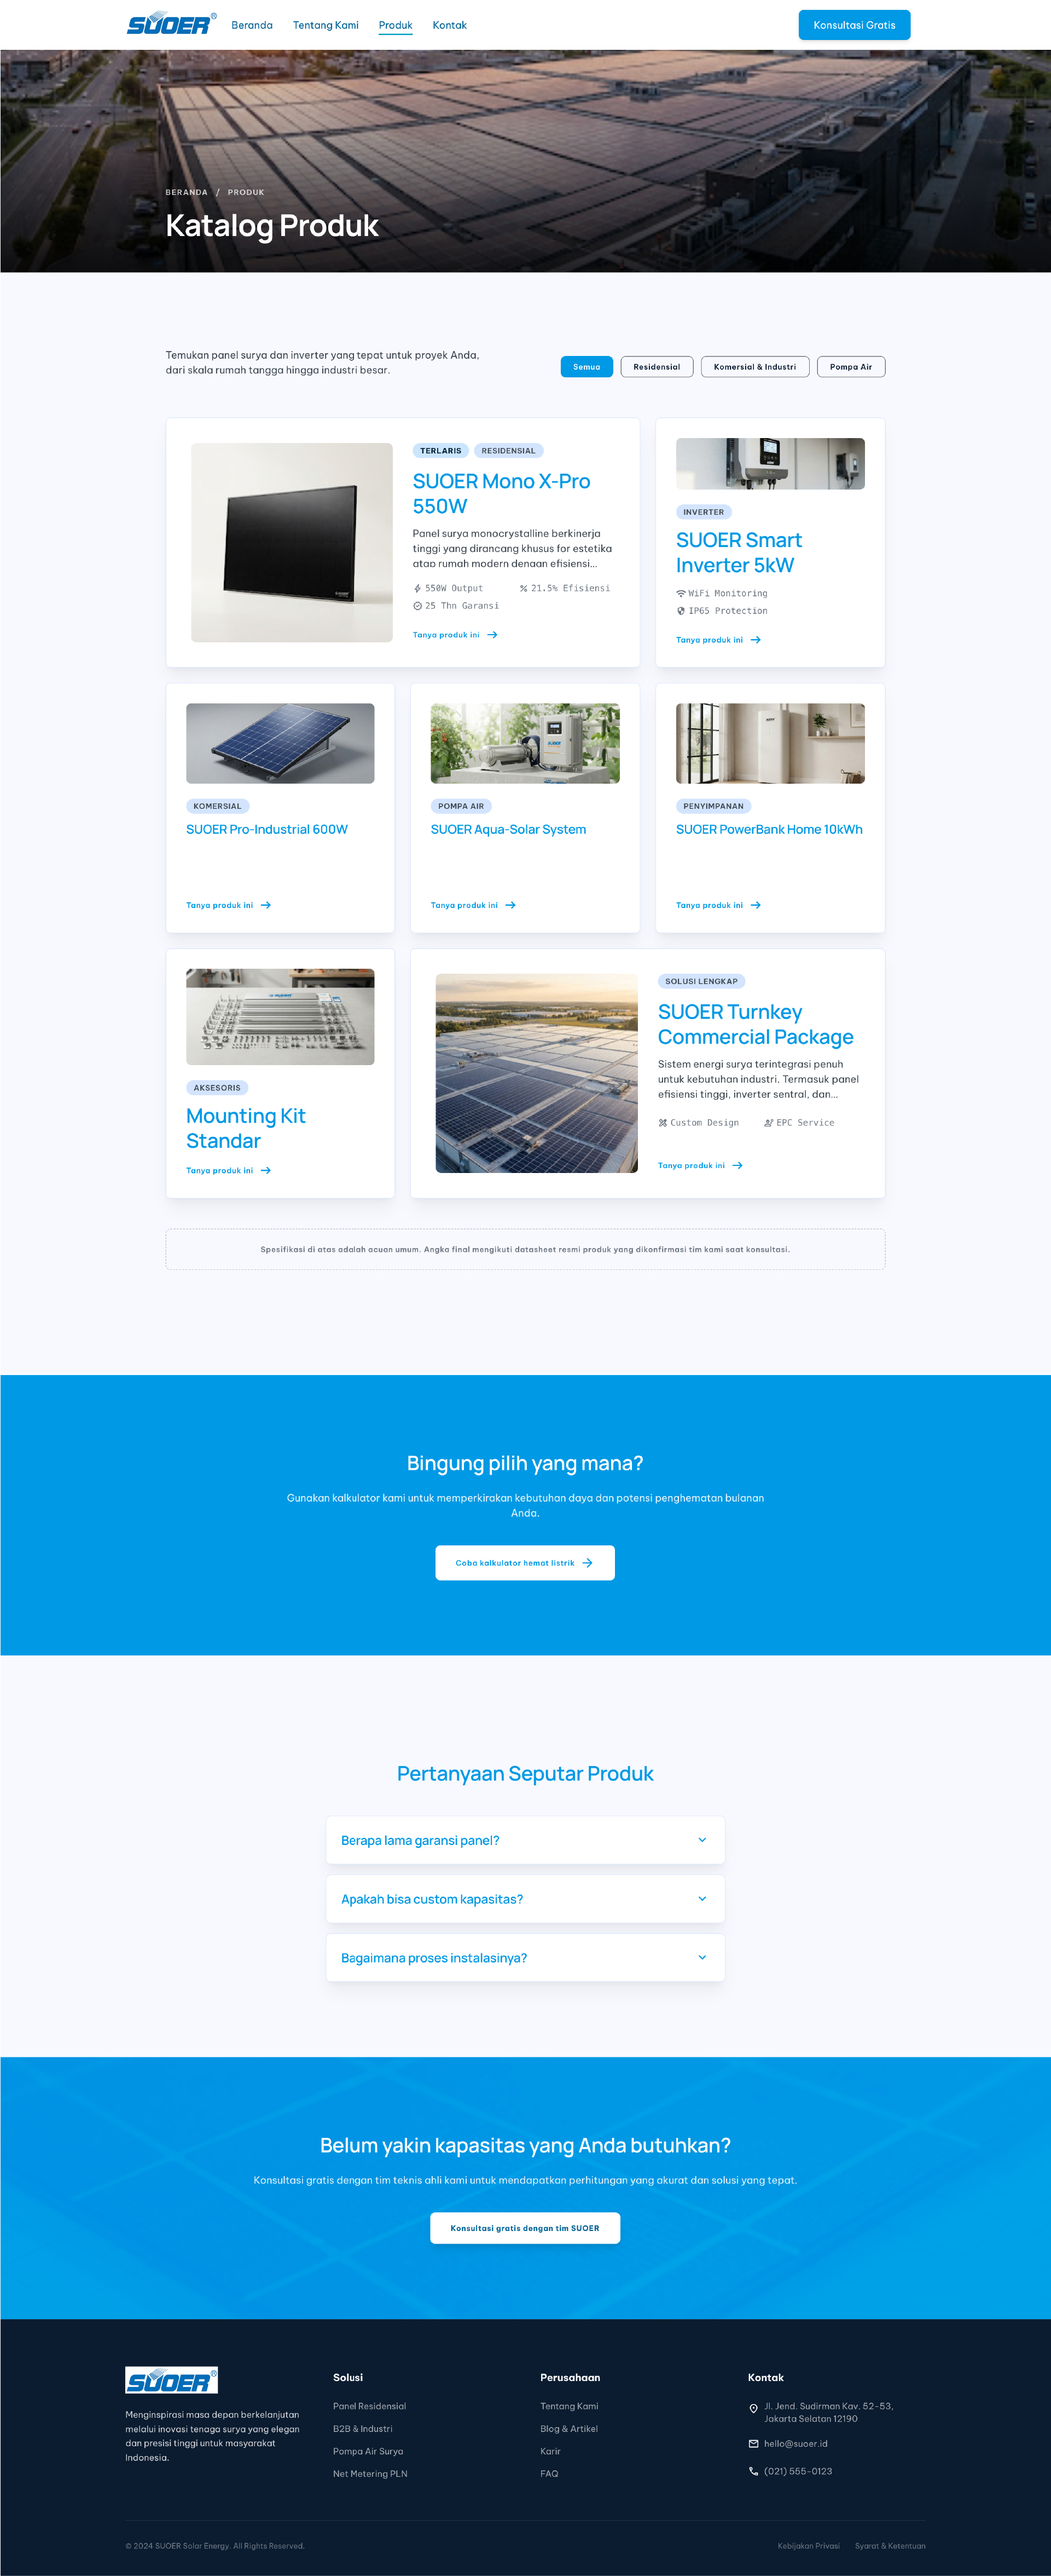
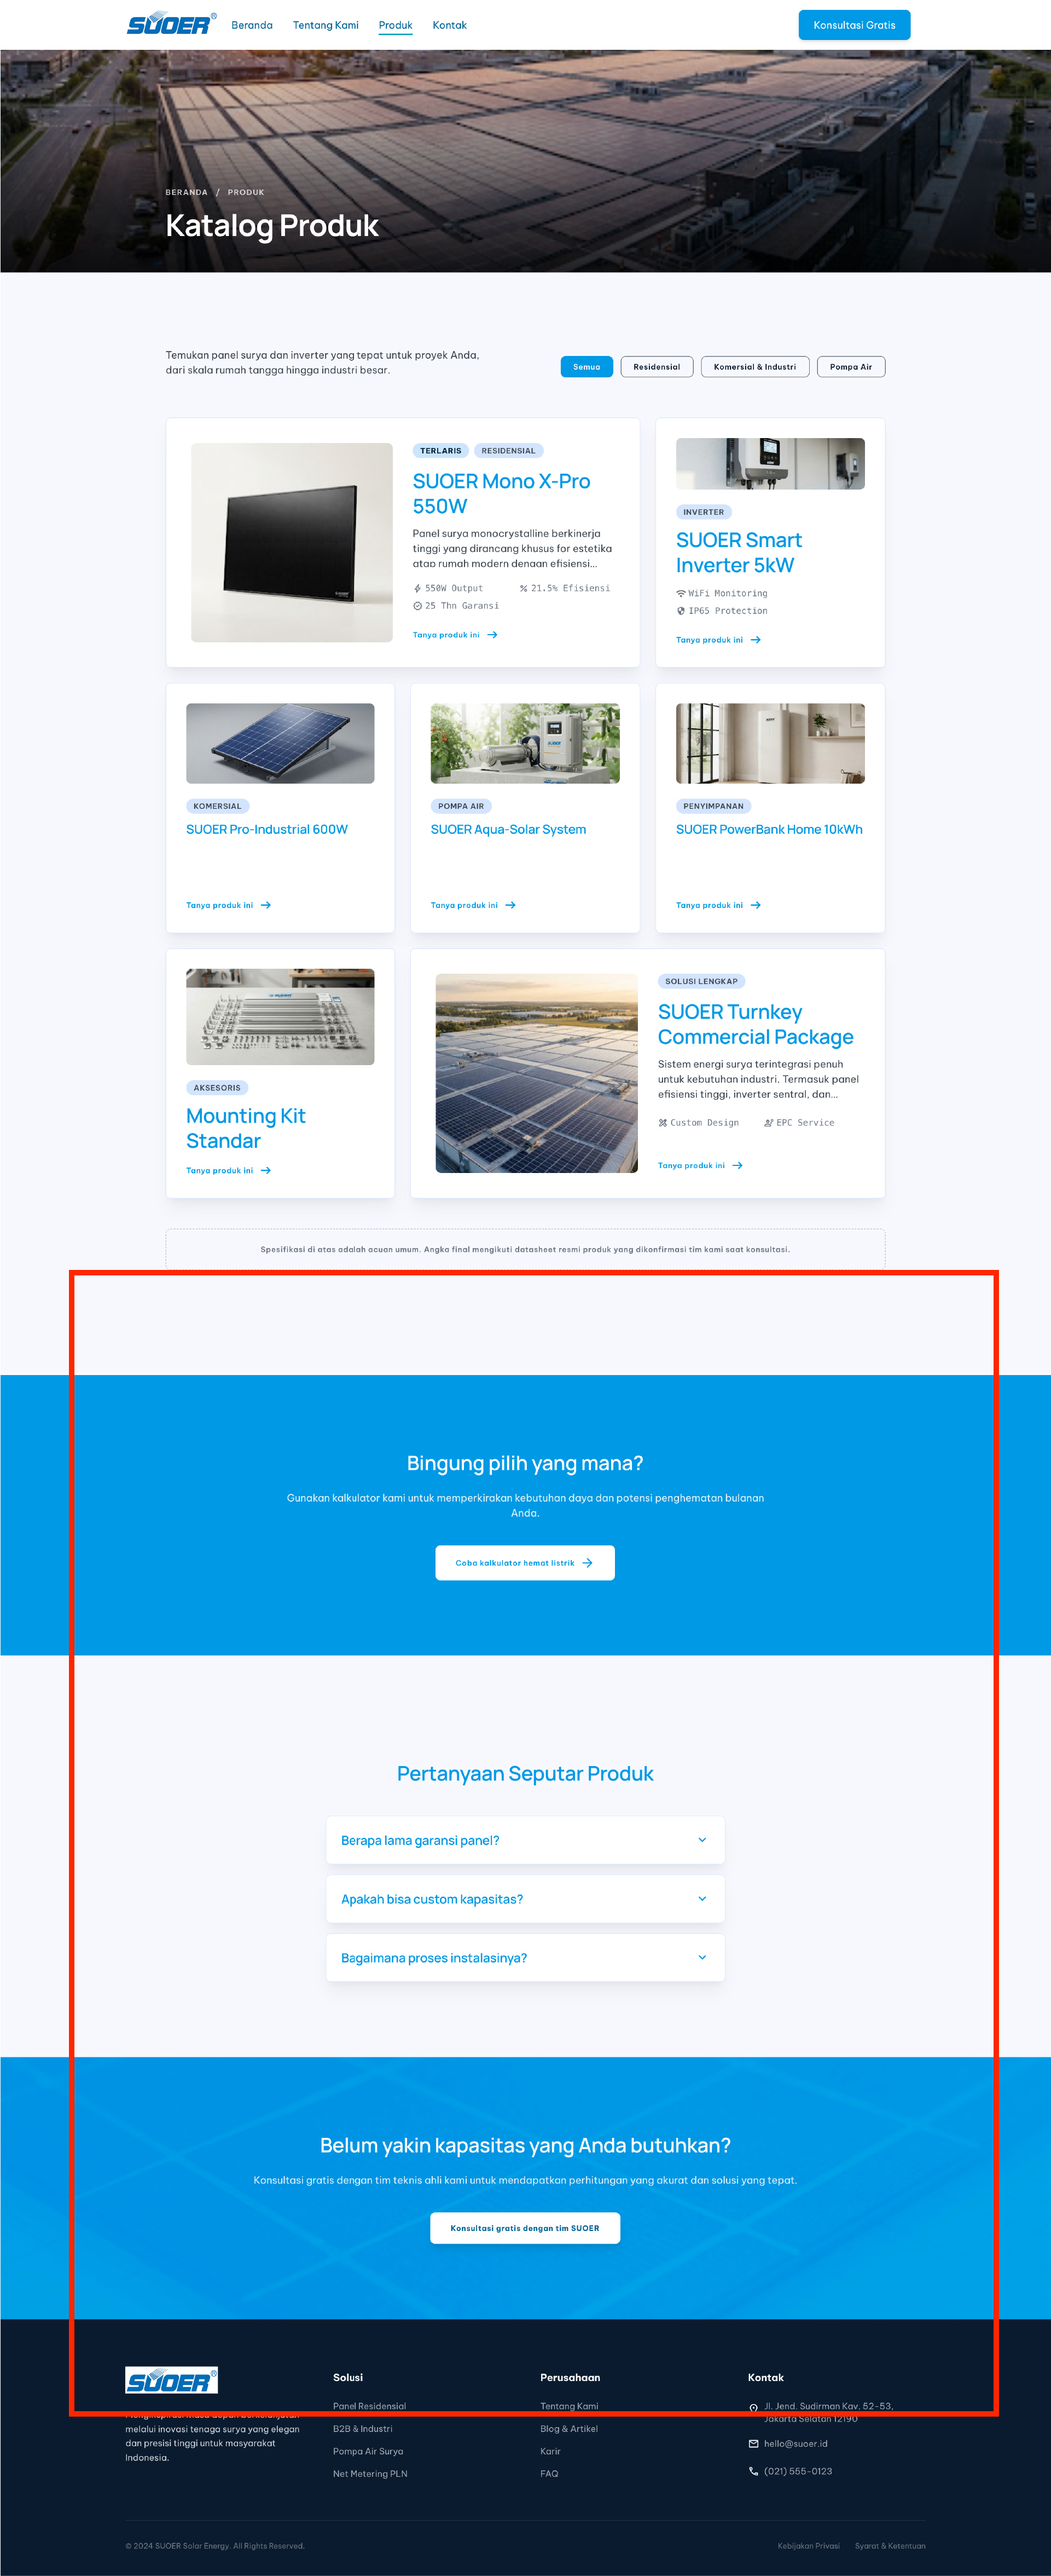
feat: add missing calculator CTA, FAQ, and closing CTA to Produk index
produk/index.blade.php was missing three sections present in the
produk_suoer_luminous_azure mockup: a "Bingung pilih yang mana?" band
linking to the Home calculator, a "Pertanyaan Seputar Produk" FAQ
(native <details>/<summary>, matching the mockup exactly - no Alpine
needed), and a closing "Belum yakin kapasitas..." CTA linking to
Kontak. Feature test extended to guard against regression.

Changed region(s): [[0.937, 0.5, 0.9682, 0.9375], [0.0625, 0.5, 0.0937, 0.9375]]

diff --git a/resources/views/pages/produk/index.blade.php b/resources/views/pages/produk/index.blade.php
@@ -13,7 +13,7 @@
         </div>
     </section>
 
-    <main class="max-w-[1280px] mx-auto px-margin-mobile md:px-margin-desktop py-[80px]">
+    <main class="max-w-[1280px] mx-auto px-margin-mobile md:px-margin-desktop py-20">
         <p class="font-body-md text-body-md text-on-surface-variant max-w-lg mb-12">
             Temukan panel surya dan inverter yang tepat untuk proyek Anda, dari skala rumah tangga hingga industri besar.
         </p>
@@ -28,4 +28,51 @@
             </div>
         @endif
     </main>
+
+    {{-- CTA Kalkulator --}}
+    <section class="bg-primary-container py-20 px-margin-mobile md:px-margin-desktop my-12">
+        <div class="max-w-3xl mx-auto text-center">
+            <h2 class="font-headline-lg-mobile md:font-headline-lg text-headline-lg-mobile md:text-headline-lg text-white mb-6">Bingung pilih yang mana?</h2>
+            <p class="font-body-md text-body-md text-white/90 mb-10">Gunakan kalkulator kami untuk memperkirakan kebutuhan daya dan potensi penghematan bulanan Anda.</p>
+            <a href="{{ url('/#kalkulator') }}" class="inline-flex items-center justify-center bg-white text-primary-container px-8 py-4 font-label-bold text-label-bold hover:bg-surface transition-all hover:-translate-y-0.5 rounded-lg">
+                Coba kalkulator hemat listrik <span class="material-symbols-outlined ml-2">arrow_forward</span>
+            </a>
+        </div>
+    </section>
+
+    {{-- FAQ Seputar Produk --}}
+    <section class="max-w-3xl mx-auto px-margin-mobile md:px-margin-desktop py-20">
+        <h2 class="font-headline-lg text-headline-lg text-primary-container mb-12 text-center">Pertanyaan Seputar Produk</h2>
+        <div class="space-y-4">
+            @php
+                $productFaqs = [
+                    ['question' => 'Berapa lama garansi panel?', 'answer' => 'Panel surya SUOER dilengkapi dengan garansi kinerja linier hingga 25 tahun, memastikan efisiensi panel tidak akan turun di bawah 80% dalam kurun waktu tersebut. Inverter biasanya memiliki garansi standar 5 hingga 10 tahun tergantung model.'],
+                    ['question' => 'Apakah bisa custom kapasitas?', 'answer' => 'Sangat bisa. Kami merancang sistem berdasarkan kebutuhan beban listrik spesifik dan luas atap yang tersedia. Tim teknisi kami akan melakukan survey untuk merancang kapasitas yang paling optimal.'],
+                    ['question' => 'Bagaimana proses instalasinya?', 'answer' => 'Proses dimulai dari survey lokasi, perancangan sistem, pengajuan izin (jika on-grid), instalasi fisik oleh teknisi bersertifikat kami, hingga tahap commissioning dan serah terima pengoperasian sistem kepada Anda.'],
+                ];
+            @endphp
+            @foreach ($productFaqs as $index => $faq)
+                <details class="group bg-surface-container-lowest shadow-md border border-surface-container-high overflow-hidden rounded-lg" @if ($index === 0) open @endif>
+                    <summary class="flex justify-between items-center gap-4 font-headline-lg text-headline-lg text-xl text-primary-container cursor-pointer p-6 list-none hover:bg-surface transition-colors">
+                        <span>{{ $faq['question'] }}</span>
+                        <span class="material-symbols-outlined transition-transform group-open:rotate-180 shrink-0">expand_more</span>
+                    </summary>
+                    <div class="px-6 pb-6 pt-2 font-body-md text-body-md text-on-surface-variant">
+                        {{ $faq['answer'] }}
+                    </div>
+                </details>
+            @endforeach
+        </div>
+    </section>
+
+    {{-- CTA Penutup --}}
+    <section class="bg-primary-container text-on-primary py-20 px-margin-mobile md:px-margin-desktop">
+        <div class="max-w-4xl mx-auto text-center flex flex-col items-center">
+            <h2 class="font-headline-lg-mobile md:font-headline-lg text-headline-lg-mobile md:text-headline-lg text-white mb-6">Belum yakin kapasitas yang Anda butuhkan?</h2>
+            <p class="font-body-md text-body-md text-white/90 mb-10">Konsultasi gratis dengan tim teknis ahli kami untuk mendapatkan perhitungan yang akurat dan solusi yang tepat.</p>
+            <a href="{{ url('/kontak') }}" class="px-8 py-4 font-label-bold text-label-bold font-bold hover:-translate-y-1 transition-all shadow-lg border border-white/20 bg-white text-primary rounded-lg inline-block">
+                Konsultasi gratis dengan tim SUOER
+            </a>
+        </div>
+    </section>
 @endsection

diff --git a/tests/Feature/Pages/ProductPageTest.php b/tests/Feature/Pages/ProductPageTest.php
@@ -18,6 +18,9 @@ class ProductPageTest extends TestCase
 
         $response->assertOk();
         $response->assertSee('SUOER Mono X-Pro 550W', escape: false);
+        $response->assertSee('Bingung pilih yang mana?', escape: false);
+        $response->assertSee('Pertanyaan Seputar Produk', escape: false);
+        $response->assertSee('Belum yakin kapasitas yang Anda butuhkan?', escape: false);
     }
 
     public function test_product_show_displays_detail_and_related_products_from_same_category(): void
